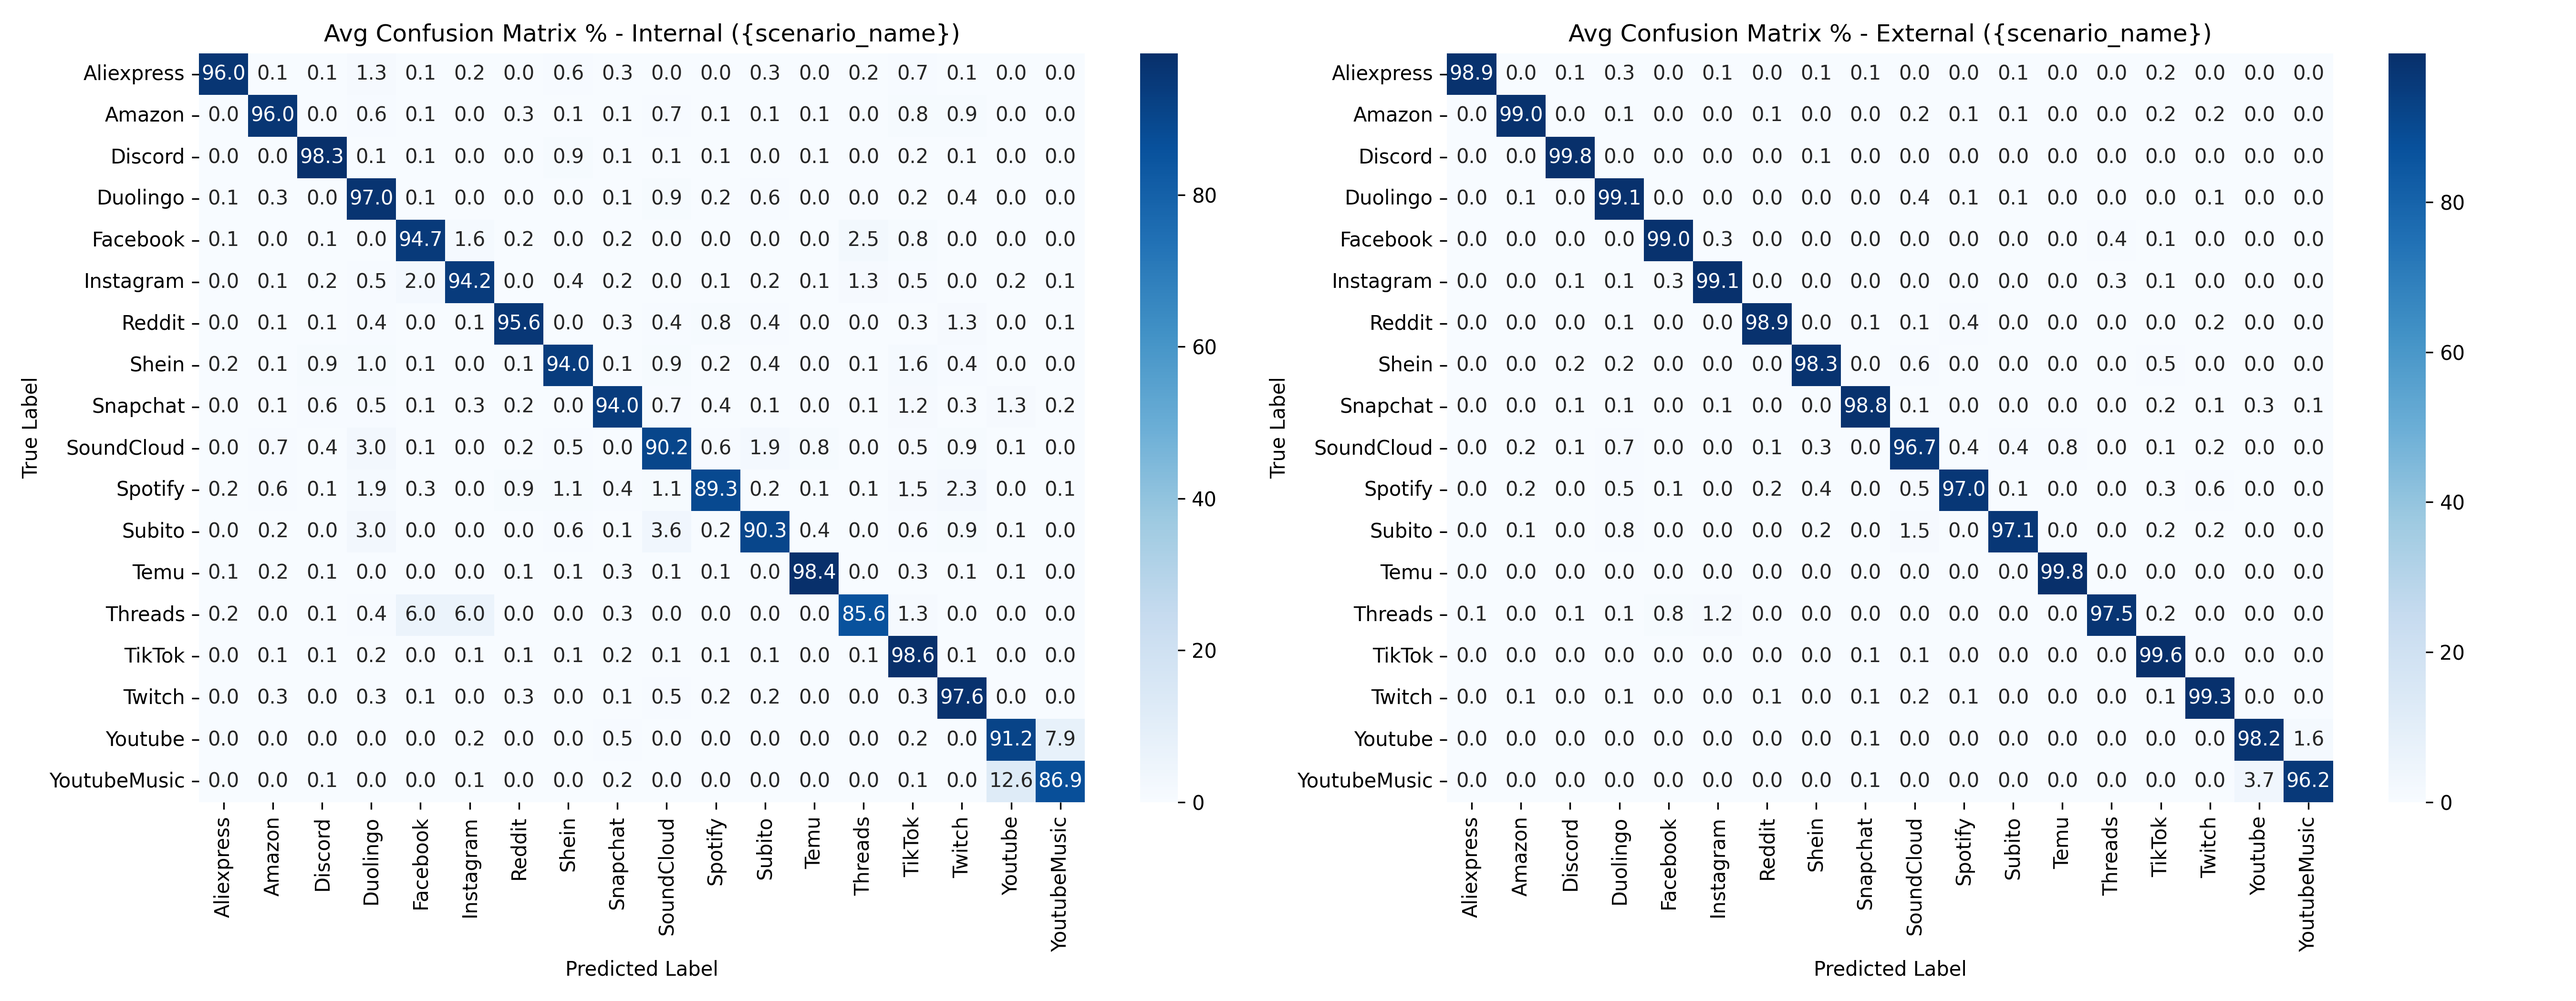
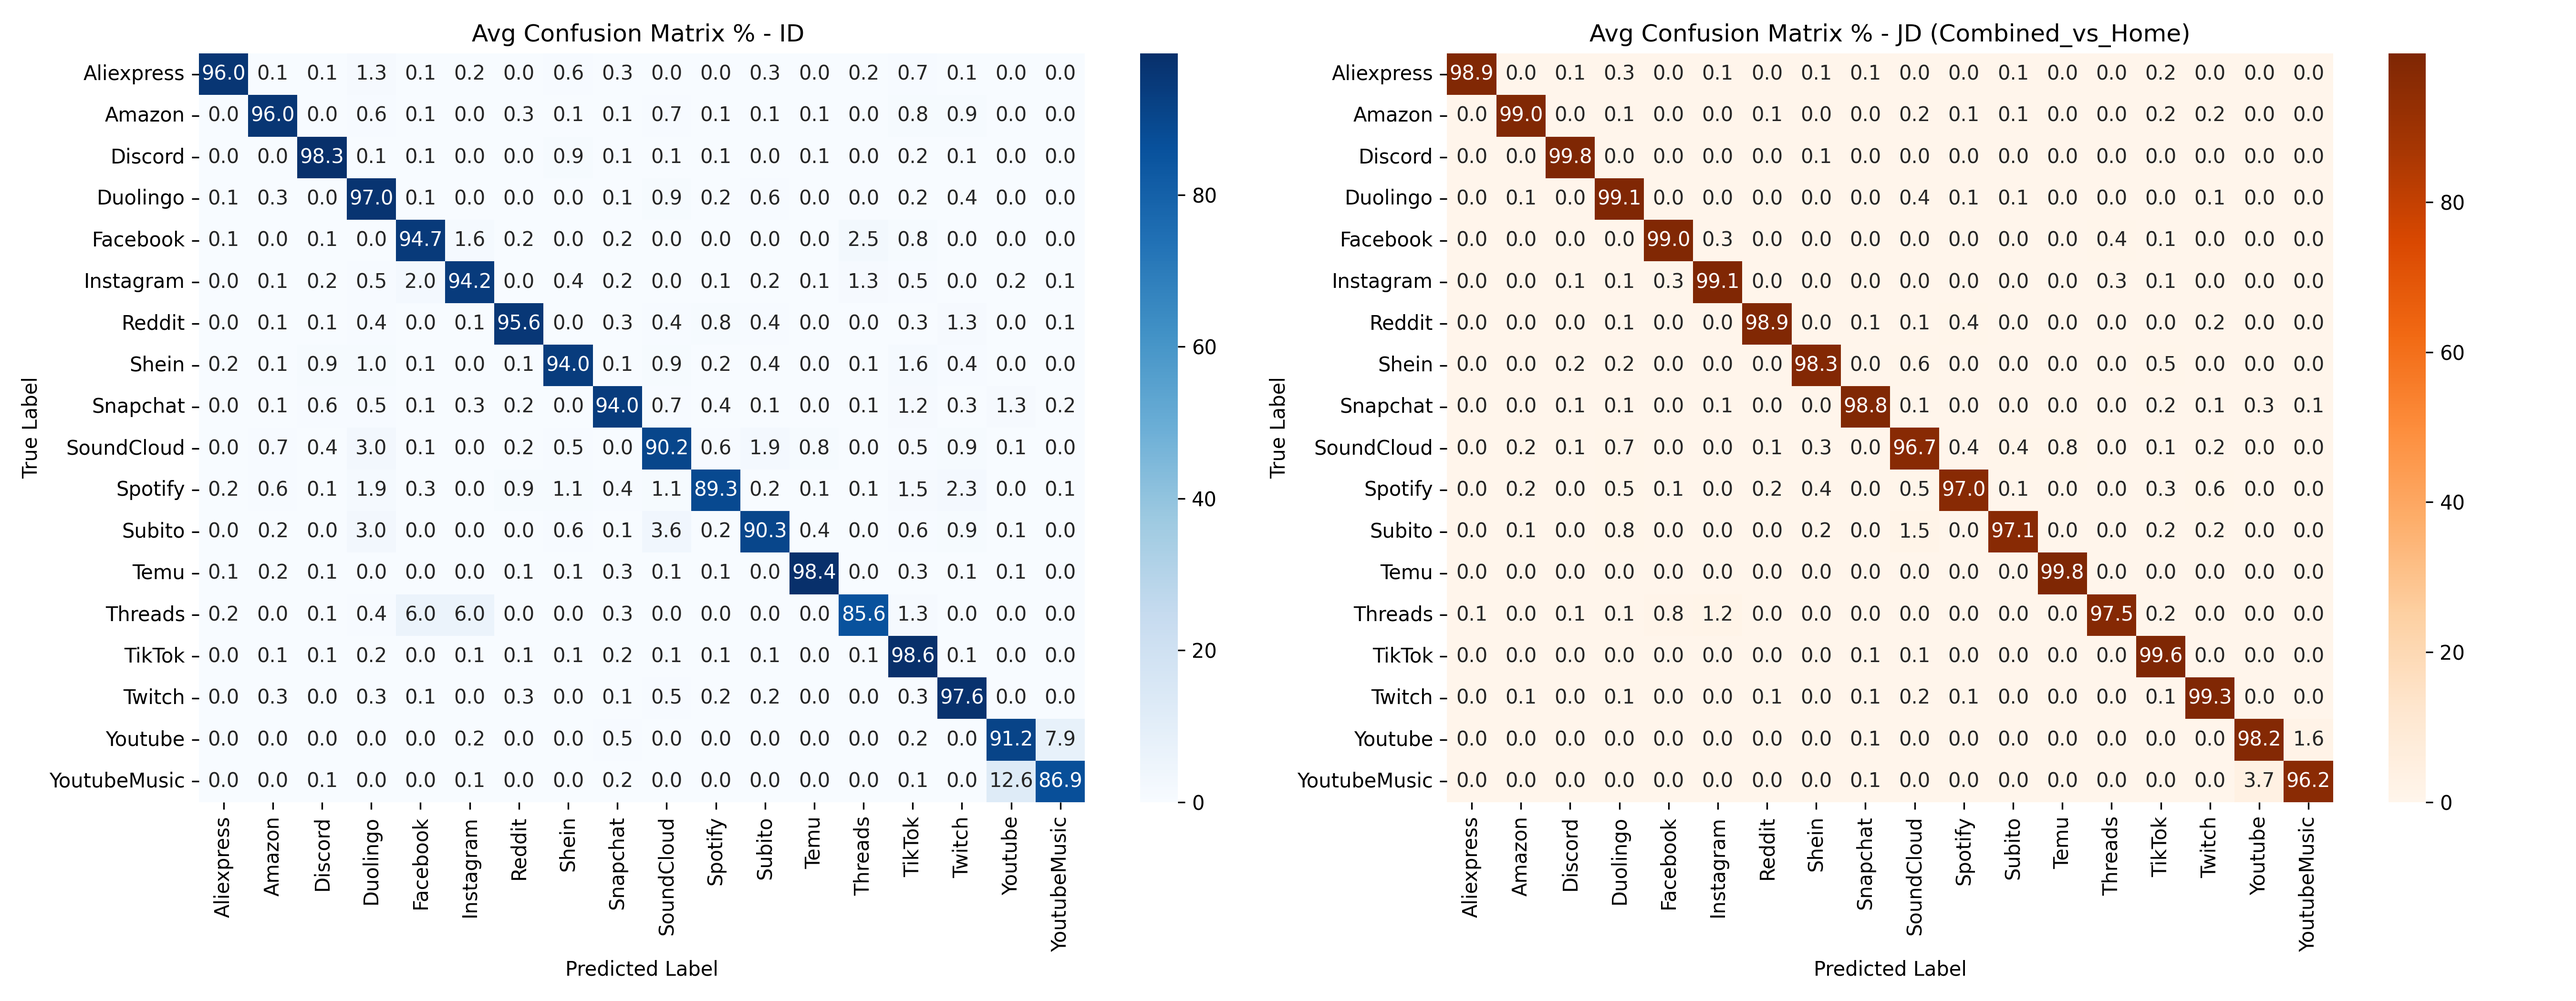
definizione tassonomia, unico barplot, aggiunti scenari

Changed region(s): [[0.56, 0.031, 0.9644, 0.8048], [0.1244, 0.031, 0.3733, 0.0619], [0.6222, 0.031, 0.84, 0.0619]]

diff --git a/model_utils.py b/model_utils.py
@@ -14,7 +14,7 @@ import matplotlib.pyplot as plt
 import seaborn as sns
 import os
 
-def train_and_evaluate_model(X_train_data, y_train_data, X_test_ext, y_test_ext, scenario_name):
+def train_and_evaluate_model(X_train_data, y_train_data, X_test_ext, y_test_ext, scenario_name, taxonomy_label):
     #RECAP: X_train_data, y_train_data sono i dati su cui addestro il modello, X_test_ext, y_test_ext sono i dati su cui testare il modello
     # X -> dati, y -> etichette 
 
@@ -32,7 +32,6 @@ def train_and_evaluate_model(X_train_data, y_train_data, X_test_ext, y_test_ext,
 
     #definisco i gruppi di feature per lo scaling: L4_payload_lenght, iat_micros, packet_dir, TCP_win_size
     feature_groups =[range(0, 10), range(10, 20), range(20, 30), range(30, 40)]
-
 
     for fold, (train_index, test_index) in enumerate(kf.split(X_train_data)):
         
@@ -66,15 +65,16 @@ def train_and_evaluate_model(X_train_data, y_train_data, X_test_ext, y_test_ext,
         y_pred_ext = model.predict(X_ext_scaled) #test su location diversa da quella di train
 
         # 6. CALCOLO METRICHE: bal_acc = media della precisione di ogni singola classe, f1 = media armonica di precisione e recall, macro = media non pesata delle metriche per ogni classe
-        f1_int = f1_score(y_val, y_pred_int, average='macro')
-        f1_ext = f1_score(y_ext_encoded, y_pred_ext, average='macro')
-        bal_acc_int = balanced_accuracy_score(y_val, y_pred_int)
-        bal_acc_ext = balanced_accuracy_score(y_ext_encoded, y_pred_ext)
+        f1_int = f1_score(y_val, y_pred_int, average='macro')*100
+        f1_ext = f1_score(y_ext_encoded, y_pred_ext, average='macro')*100
+        bal_acc_int = balanced_accuracy_score(y_val, y_pred_int)*100
+        bal_acc_ext = balanced_accuracy_score(y_ext_encoded, y_pred_ext)*100
 
         results_report.append({
             'fold': fold+1, 
-            'f1_Internal': f1_int, 'bal_acc_Internal': bal_acc_int,
-            'f1_External': f1_ext, 'bal_acc_External': bal_acc_ext 
+            'f1_ID': f1_int, 'bal_acc_ID': bal_acc_int,
+            'f1_OOD_or_JD': f1_ext, 'bal_acc_OOD_or_JD': bal_acc_ext,
+            'Taxonomy': taxonomy_label
         })
 
         # 7. MATRICI DI CONFUSIONE NORMALIZZATE IN PERCENTUALE
@@ -88,7 +88,8 @@ def train_and_evaluate_model(X_train_data, y_train_data, X_test_ext, y_test_ext,
     df_report = pd.DataFrame(results_report)
 
     #calcolo media e deviazione standard 
-    stats = (df_report.drop(columns='fold').agg(['mean', 'std'])*100).T
+    numeric_cols = df_report.select_dtypes(include=[np.number]).drop(columns=['fold'])
+    stats = numeric_cols.agg(['mean', 'std']).T
     stats['Type'] = 'Global Metric (%)'
 
     #media delle 5 matrici dei 5 fold per internal ed external
@@ -106,51 +107,27 @@ def train_and_evaluate_model(X_train_data, y_train_data, X_test_ext, y_test_ext,
     class_report['Type'] = 'Per Class Accuracy (%)'
     
     final_report = pd.concat([stats, class_report], axis=0)
-    final_report = final_report.round(3)
+    final_report = final_report.round(2)
     final_report.to_csv(f"risultati/final_report_{scenario_name}.csv", index=True)
 
     # Visualizzazione
-    plot_results(df_report, cm_internal_avg, cm_external_avg, class_names, scenario_name)
+    plot_results(df_report, cm_internal_avg, cm_external_avg, class_names, scenario_name, taxonomy_label)
 
     return df_report
 
 
-def plot_results(df_report, cm_internal_avg, cm_external_avg, class_names, scenario_name):
-    #preparazione dei dati per il barplot
-    metrics = ['f1', 'bal_acc']
-    domains = {'Internal', 'External'}
-    plot_data = []
-
-    for _, row in df_report.iterrows():
-        for m in metrics:
-            for d in domains:
-                plot_data.append({
-                    'Metric': m,
-                    'Location': d,
-                    'Score': row[f"{m}_{d}"]
-                })
-
-    plot_df = pd.DataFrame(plot_data)
-
-    plt.figure(figsize=(10, 6))
-    #asse x metrica, y valore medio
-    sns.barplot(data = plot_df, x='Metric', y='Score', hue='Location', capsize=0.1, errorbar='sd')
-    plt.title(f'Performance Scenario: {scenario_name}')
-    plt.ylim(0, 1.1)
-    plt.savefig(f"grafici/barplot_performance_{scenario_name}.png", dpi=300, bbox_inches='tight')
-    plt.show()
-
+def plot_results(df_report, cm_internal_avg, cm_external_avg, class_names, scenario_name, taxonomy_label):
     #heatmap 
     fig, axes = plt.subplots(1, 2, figsize=(18, 7))
     sns.heatmap(cm_internal_avg, annot=True, fmt=".1f", cmap='Blues', 
                 xticklabels=class_names, yticklabels=class_names, ax=axes[0])
-    axes[0].set_title(f'Avg Confusion Matrix % - Internal ({scenario_name})')
+    axes[0].set_title(f'Avg Confusion Matrix % - ID ')
     axes[0].set_xlabel('Predicted Label')
     axes[0].set_ylabel('True Label')
 
-    sns.heatmap(cm_external_avg, annot=True, fmt=".1f", cmap='Blues', 
+    sns.heatmap(cm_external_avg, annot=True, fmt=".1f", cmap='Oranges', 
                 xticklabels=class_names, yticklabels=class_names, ax=axes[1])
-    axes[1].set_title(f'Avg Confusion Matrix % - External ({scenario_name})')
+    axes[1].set_title(f'Avg Confusion Matrix % - {taxonomy_label} ({scenario_name})')
     axes[1].set_xlabel('Predicted Label')
     axes[1].set_ylabel('True Label')
 

diff --git a/main.py b/main.py
@@ -2,6 +2,10 @@ from data_loader import load_and_split_data
 from feature_engineering import extract_features
 from model_utils import train_and_evaluate_model
 import numpy as np
+import pandas as pd
+import matplotlib.pyplot as plt
+import seaborn as sns
+import os
 
 
 DATASET_PATH = "/storage_14tb/workspace_idio/UniVR_Data/dataset_df_exact_no0load_saturated_handshake_tail_no0loadFilter_extended_94bde95_7e0dbc17/"
@@ -30,19 +34,55 @@ X_univr_filtered = X_univr[filter_univr]
 y_univr_filtered = y_univr[filter_univr]
 print(f"Campioni Home dopo filtro: {len(y_home_filtered)} | Campioni UniVR dopo filtro: {len(y_univr_filtered)}")
 
-#SCENARIO 1: Addestramento su Home, test su UniVR
-print("\nSCENARIO 1: Addestramento su Home, test su UniVR")
-report_scenario_1 = train_and_evaluate_model(X_home_filtered, y_home_filtered, X_univr_filtered, y_univr_filtered, scenario_name="Home_vs_UniVR")
-report_scenario_1.to_csv("risultati/report_scenario_1.csv", index=False)
+all_results = [] #per salvare i risultati di tutti gli scenari
 
-#SCENARIO 2: Addestramento su UniVR, test su Home
-print("\nSCENARIO 2: Addestramento su UniVR, test su Home")
-report_scenario_2 = train_and_evaluate_model(X_univr_filtered, y_univr_filtered, X_home_filtered, y_home_filtered, scenario_name="UniVR_vs_Home")
-report_scenario_2.to_csv("risultati/report_scenario_2.csv", index=False)
+def collect_results(df, location_name, label):
+    for _, row in df.iterrows():
+        all_results.append({
+            'Test Location': location_name,
+            'Scenario': label,
+            'F1 Score': row['f1_OOD_or_JD'] if label != 'ID' else row['f1_ID']
+        })
 
-#SCENARIO 3: Addestramento su dati combinati, test su Home
-print("\nSCENARIO 3: Addestramento su dati combinati, test su Home")
+#1. addestramento su Home, test su Home
+report_home_to_home = train_and_evaluate_model(X_home_filtered, y_home_filtered, X_home_filtered, y_home_filtered, scenario_name="Home_vs_Home", taxonomy_label="ID")
+collect_results(report_home_to_home, location_name="Home", label="ID")
+report_home_to_home.to_csv("risultati/report_home_to_home.csv", index=False)
+
+#2. addestramento su Home, test su UniVR
+report_home_to_univr = train_and_evaluate_model(X_home_filtered, y_home_filtered, X_univr_filtered, y_univr_filtered, scenario_name="Home_vs_UniVR", taxonomy_label="OOD")
+collect_results(report_home_to_univr, location_name="UniVR", label="OOD")
+report_home_to_univr.to_csv("risultati/report_home_to_univr.csv", index=False)
+
+#3. addestramento su UniVR, test su UniVR
+report_univr_to_univr = train_and_evaluate_model(X_univr_filtered, y_univr_filtered, X_univr_filtered, y_univr_filtered, scenario_name="UniVR_vs_UniVR", taxonomy_label="ID")
+collect_results(report_univr_to_univr, location_name="UniVR", label="ID")
+report_univr_to_univr.to_csv("risultati/report_univr_to_univr.csv", index=False)
+
+#4. addestramento su UniVR, test su Home
+report_univr_to_home = train_and_evaluate_model(X_univr_filtered, y_univr_filtered, X_home_filtered, y_home_filtered, scenario_name="UniVR_vs_Home", taxonomy_label="OOD")
+collect_results(report_univr_to_home, location_name="Home", label="OOD")
+report_univr_to_home.to_csv("risultati/report_univr_to_home.csv", index=False)
+
+#5. addestramento su dati combinati, test su UniVR
 X_combined = np.vstack((X_home_filtered, X_univr_filtered)) #unisco dati
 y_combined = np.concatenate((y_home_filtered, y_univr_filtered)) #unisco etichette
-report_scenario_3 = train_and_evaluate_model(X_combined, y_combined, X_home_filtered, y_home_filtered, scenario_name="Combined_vs_Home")
-report_scenario_3.to_csv("risultati/report_scenario_3.csv", index=False)
+report_jd_to_univr = train_and_evaluate_model(X_combined, y_combined, X_univr_filtered, y_univr_filtered, scenario_name="Combined_vs_UniVR", taxonomy_label="JD")
+collect_results(report_jd_to_univr, location_name="UniVR", label="JD")
+report_jd_to_univr.to_csv("risultati/report_jd_to_univr.csv", index=False)
+
+#6. addestramento su dati combinati, test su Home
+report_jd_to_home = train_and_evaluate_model(X_combined, y_combined, X_home_filtered, y_home_filtered, scenario_name="Combined_vs_Home", taxonomy_label="JD")
+collect_results(report_jd_to_home, location_name="Home", label="JD")
+report_jd_to_home.to_csv("risultati/report_jd_to_home.csv", index=False)    
+
+#GENERO BARPLOT FINALE 
+final_plot_df = pd.DataFrame(all_results)
+plt.figure(figsize=(10, 6))
+sns.barplot(data=final_plot_df, x='Test Location', y='F1 Score', hue='Scenario', capsize=0.1, errorbar='sd')
+plt.title('Valutazione Cross-Domain: ID vs OOD vs JD')
+plt.ylabel('F1 Score (%)')
+plt.ylim(0, 105)
+plt.grid(axis='y', linestyle='--', alpha=0.7)
+plt.savefig("grafici/barplot_finale_tassonomia.png", dpi=300, bbox_inches='tight')
+plt.show()
